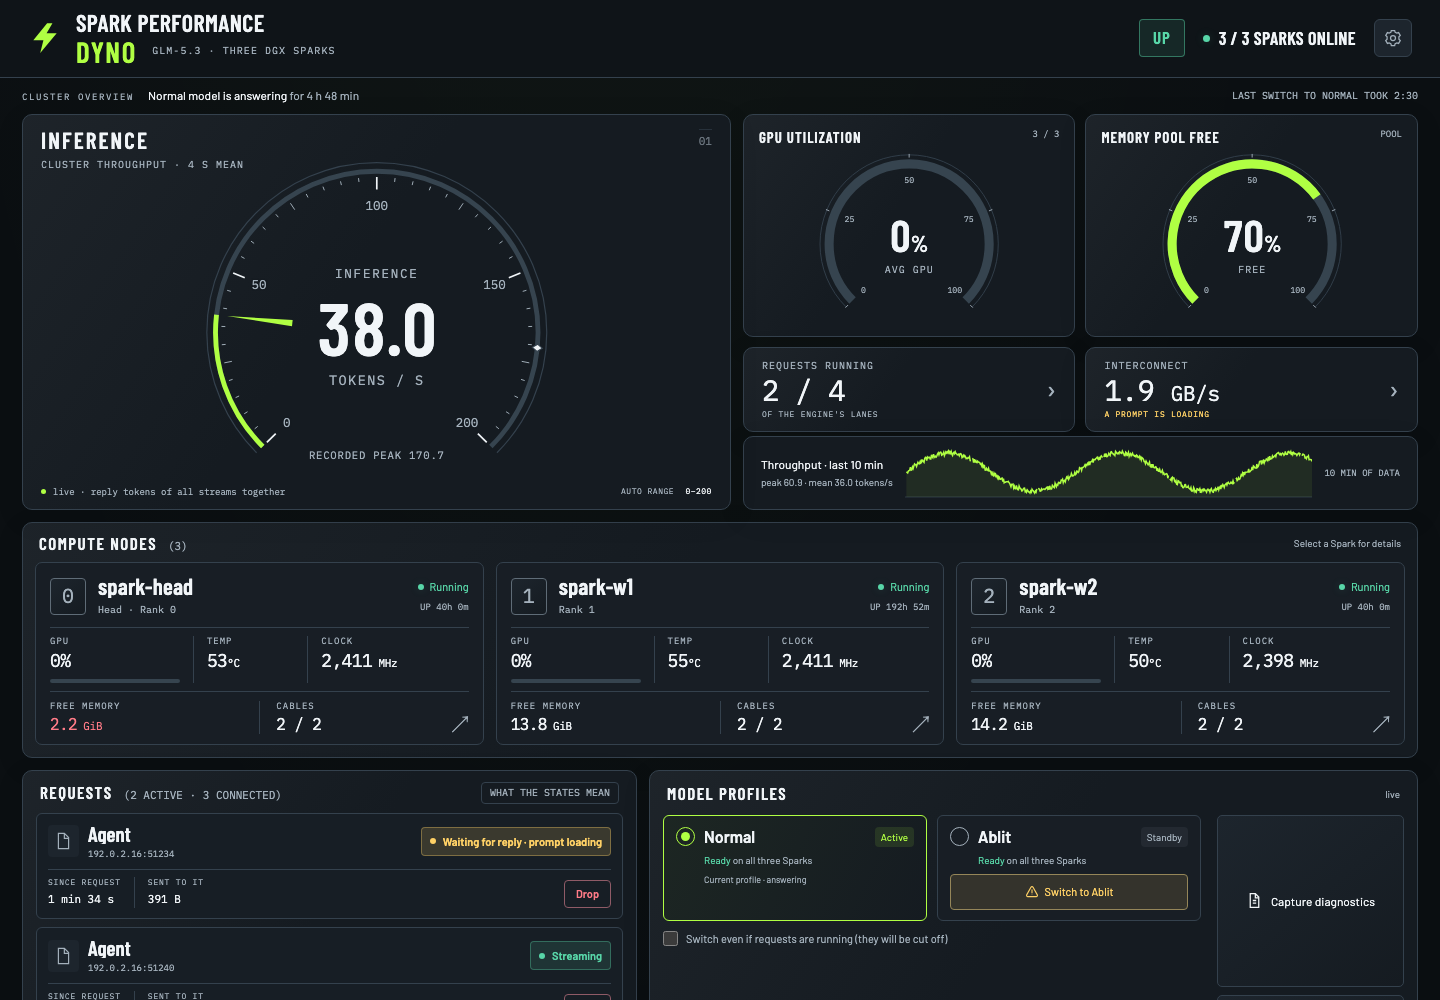
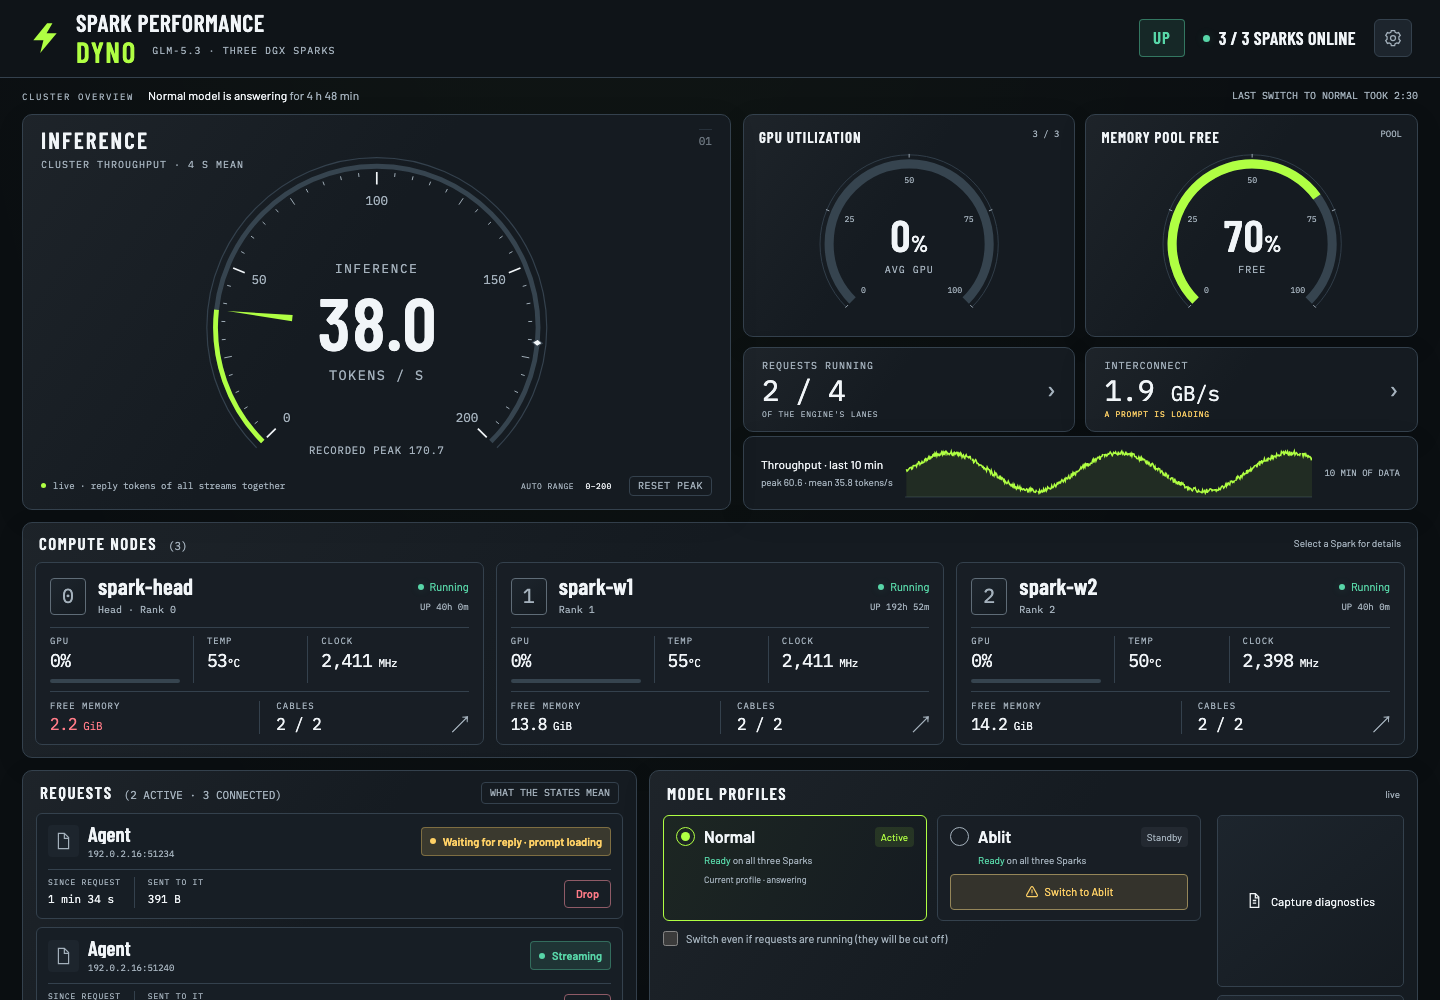
README: fresh screenshots of the current build (main view with Reset peak, a switch in progress, a stalled engine, phone width)

diff --git a/README.md b/README.md
@@ -7,6 +7,10 @@ all-time tally.
 
 ![The Spark Performance Dyno page](docs/screenshot.png)
 
+| A switch in progress | A stalled engine | On a phone |
+|---|---|---|
+| ![Switching](docs/switching.png) | ![Stalled](docs/stalled.png) | ![Phone](docs/phone.png) |
+
 Both weights serve under the same model name, so clients (Atlas, Hermes, ...) need no change when you switch.
 
 Built and used on a 3-Spark cluster (TP=3) with TensorFold 0.6; the recipe's 2-Spark setup works the same, with one worker
